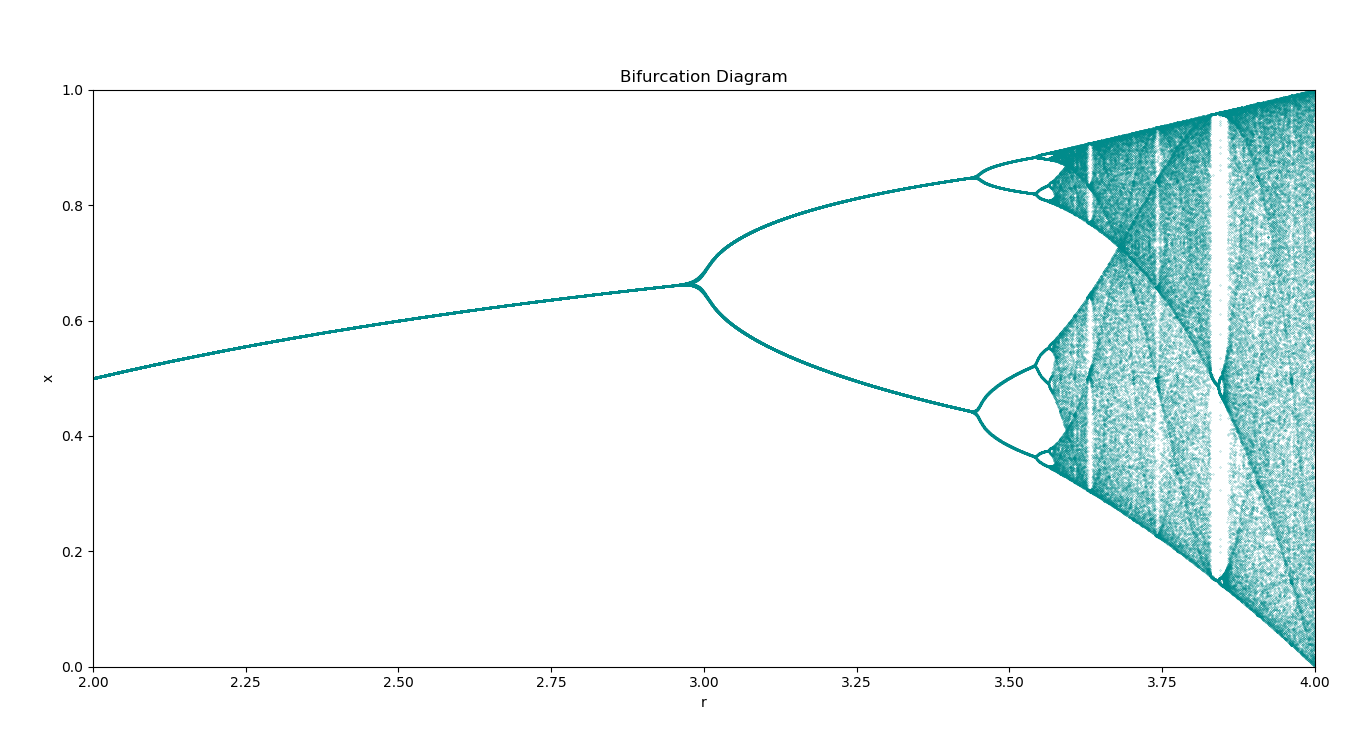
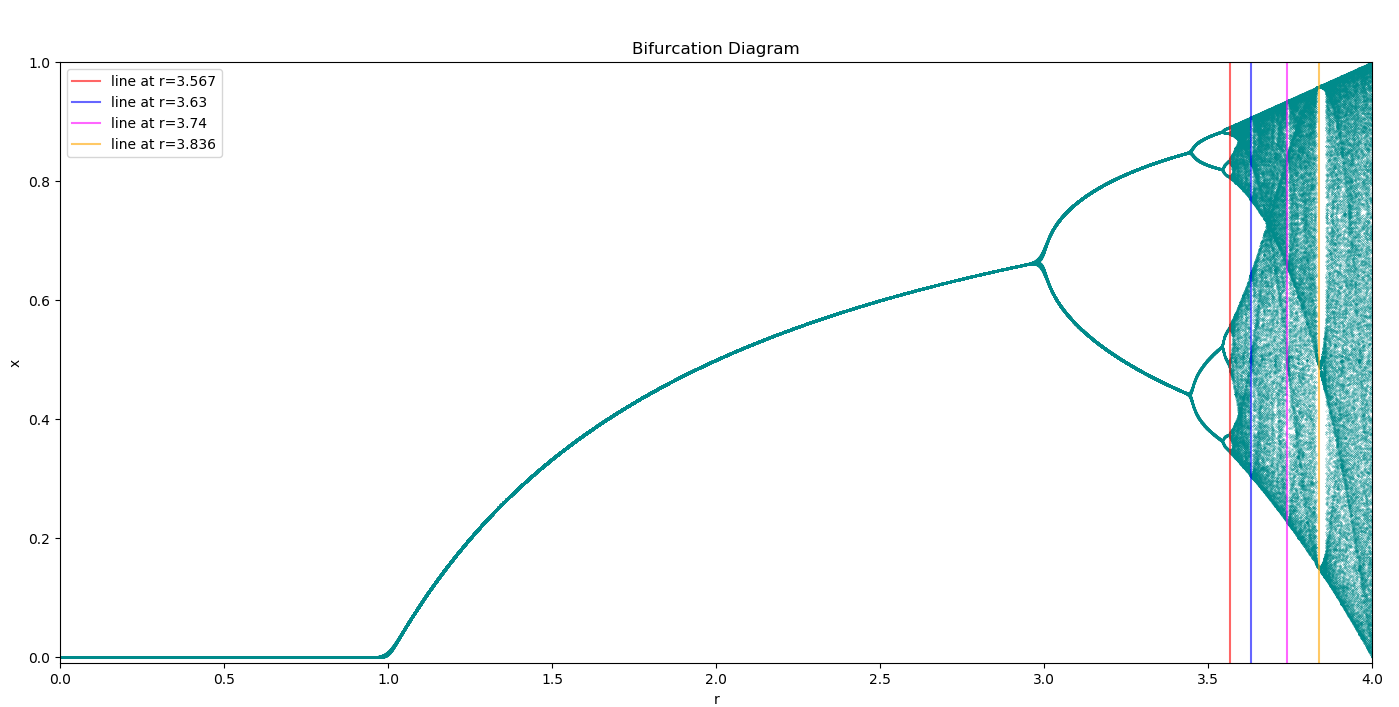
small changes in task 4

diff --git a/exercise_3/task4_logistic_map.py b/exercise_3/task4_logistic_map.py
@@ -29,7 +29,7 @@ def plot(r_vals, x_vals, title='Bifurcation Diagram', x_lim=(0, 4), vertical_lin
 
     if vertical_lines is not None:
         for x, c in vertical_lines:
-            ax.axvline(x=x, c=c, label=f'line at x = {x}', alpha=0.6)
+            ax.axvline(x=x, c=c, label=f'line at r={x}', alpha=0.6)
         ax.legend(loc='upper left')
 
     ax.set_title(title)

diff --git a/exercise_3/task4_lorenz.py b/exercise_3/task4_lorenz.py
@@ -37,7 +37,7 @@ if __name__ == '__main__':
         'fun': lorenz_attractor
     }
 
-    mode = 1
+    mode = 0
 
     if mode == 0:
         print("1", dt)
